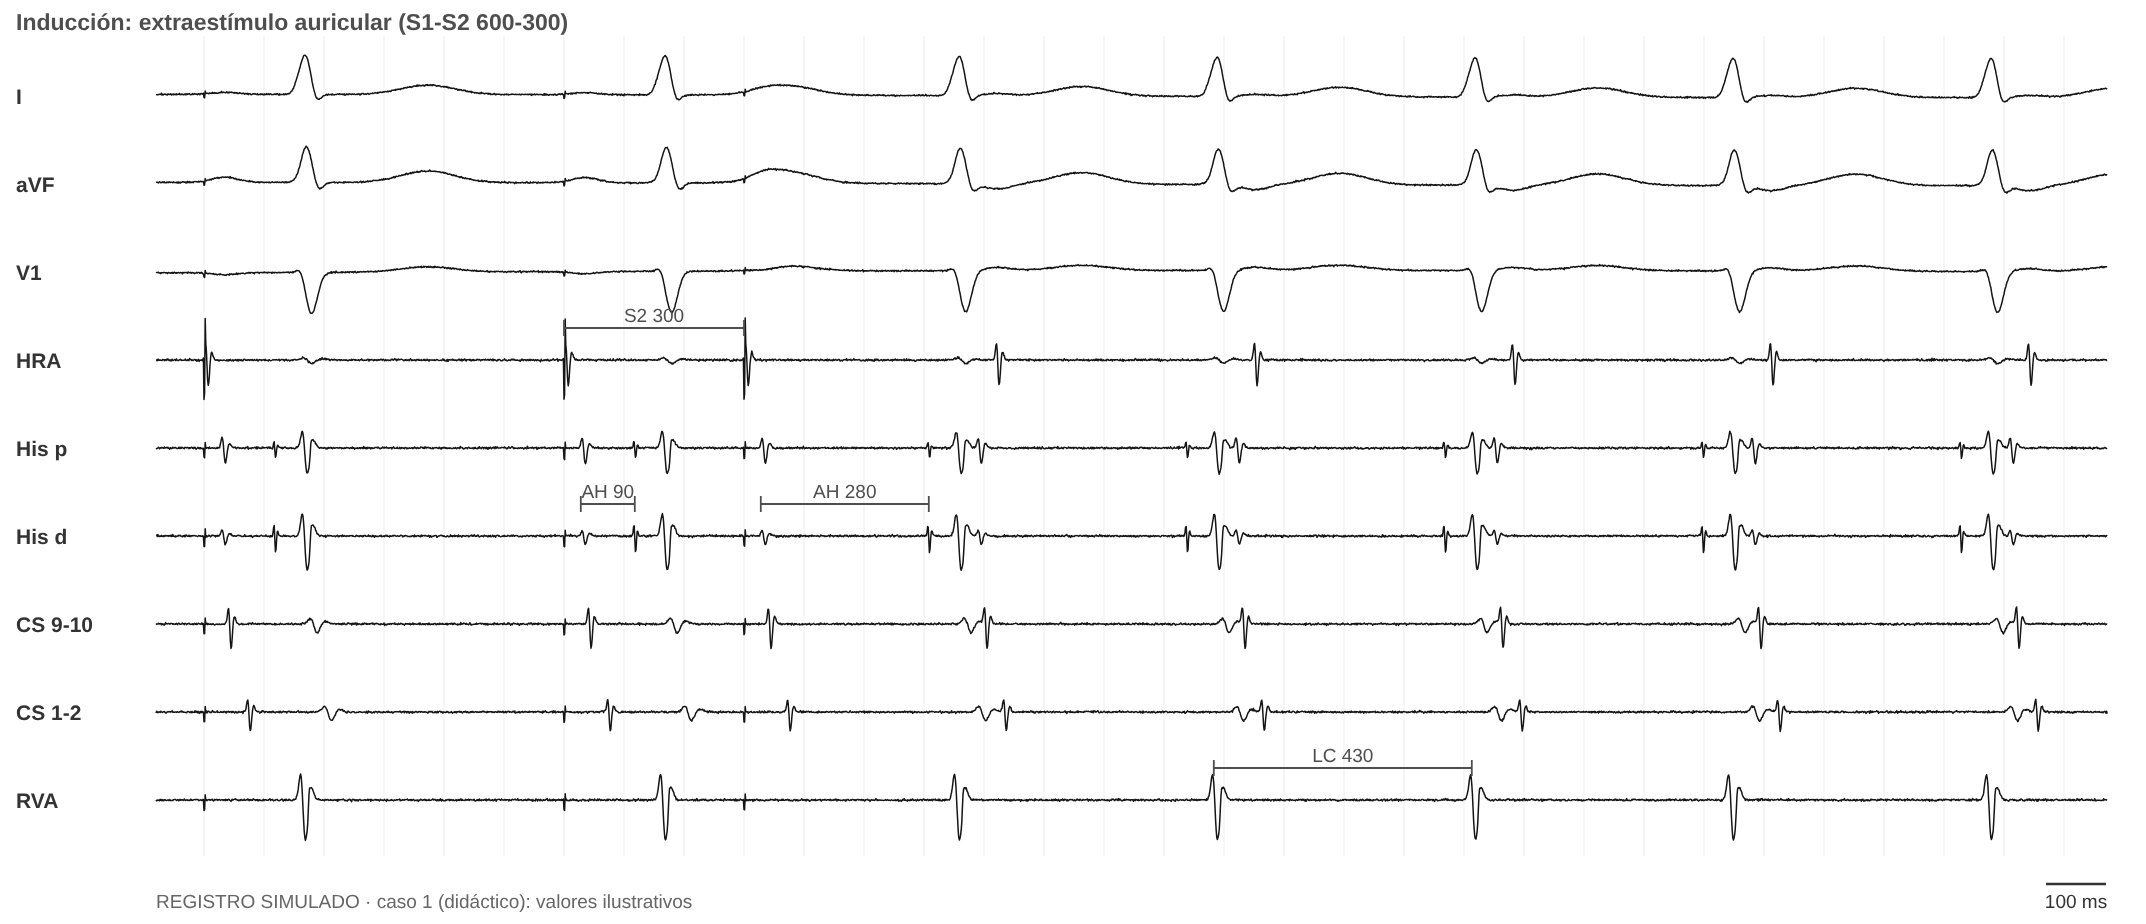
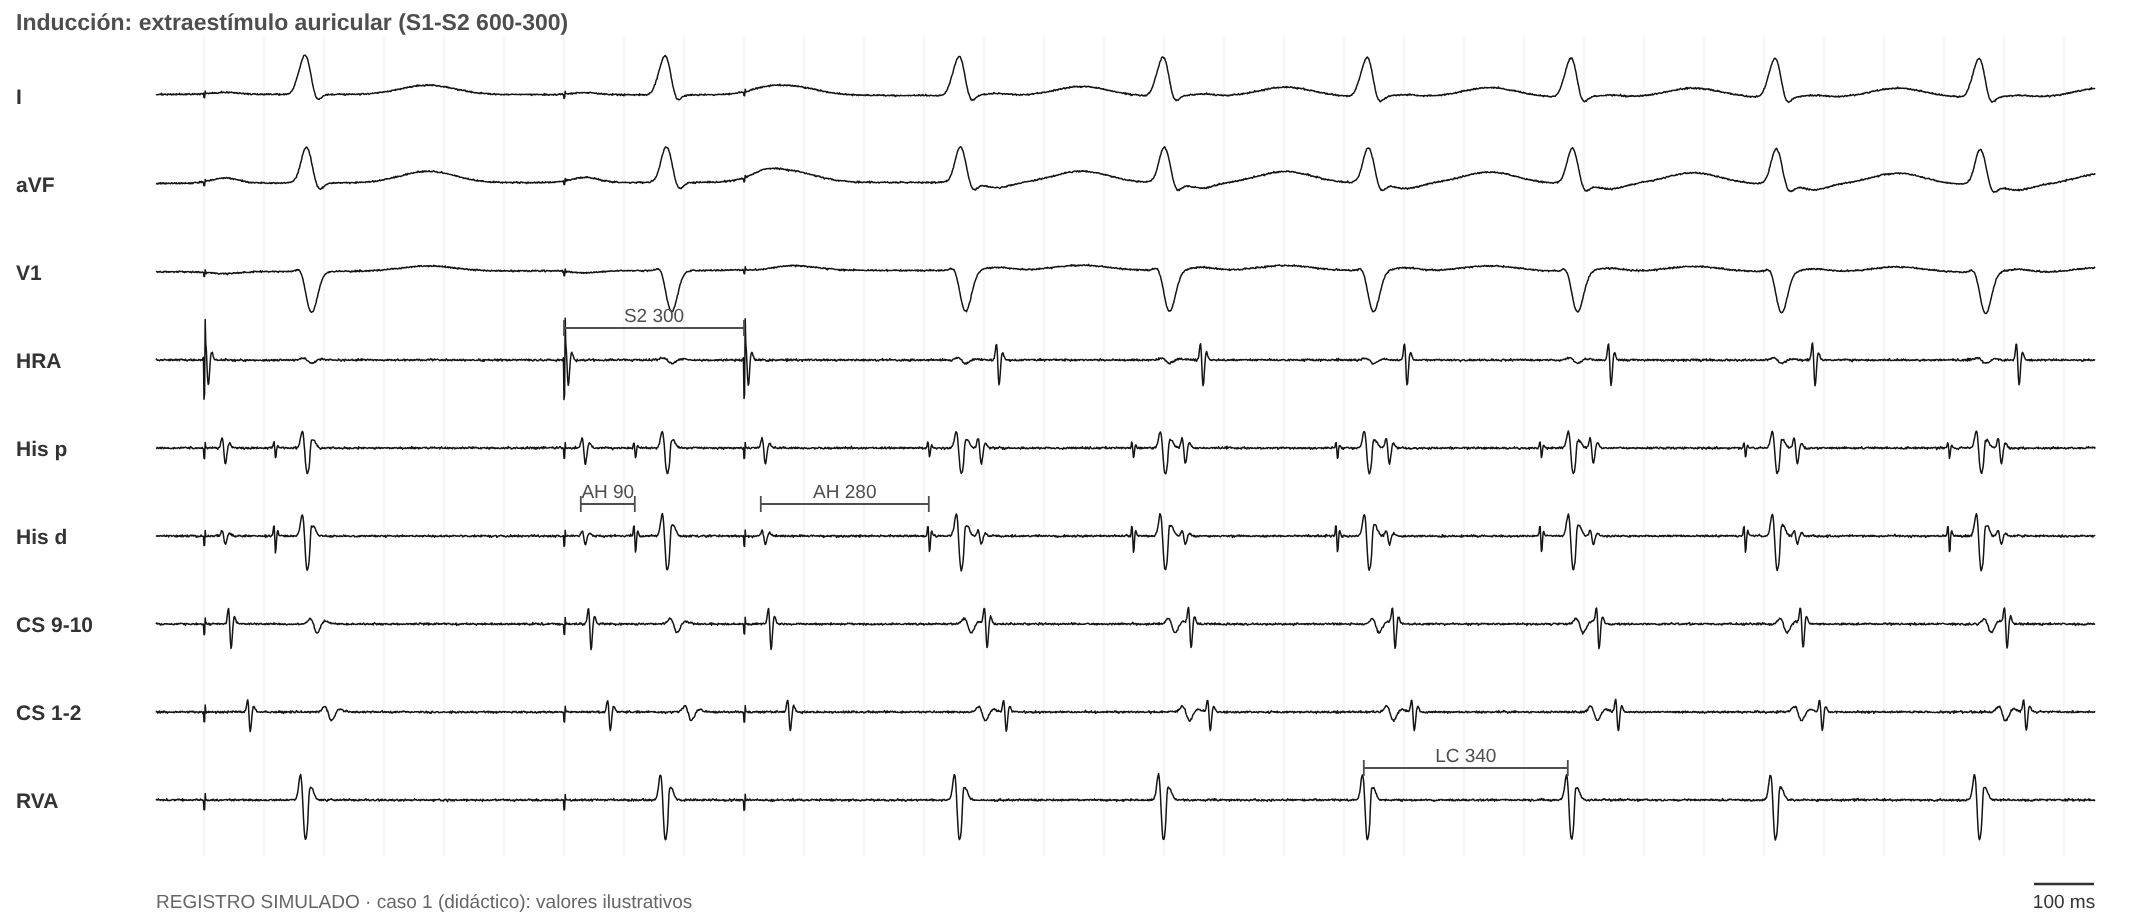
Caso 1: ECG real de TRNAV típica (anonimizado), LC 340 y sobreestimulación ventricular propia
Claude-Session: https://claude.ai/code/session_01Pw5rjt62KK5LeJZoEyFiaM

diff --git a/index.html b/index.html
@@ -1069,9 +1069,9 @@ const PDX = [['trnav_t', 'TRNAV típica'], ['trnav_a', 'TRNAV atípica'], ['trav
 const UTAG = { clave: ['Clave', 'var(--green)'], util: ['Útil', 'var(--blue)'], trampa: ['Engañosa', 'var(--orange)'] };
 const PCASOS = [
   { id: 'c1', t: 'Palpitaciones de inicio y fin bruscos', p: 'Adolescente de 15 años con palpitaciones paroxísticas. ECG basal normal, sin preexcitación.',
-    ecg: 'figs/sim/casos/c1_ecg.png', basal: 'figs/sim/casos/c1_basal.png', ind: 'figs/sim/casos/c1_ind.png',
-    h: ['TSV de QRS angosto inducida con extraestímulos auriculares, LC 430 ms', 'Relación AV 1:1', 'VA septal 40 ms: la A cae casi junto con el V', 'Activación auricular concéntrica (más precoz en el His y el SC proximal)'],
-    m: { vop: { r: 'Estimulando a 370 ms las A se aceleran con la misma secuencia; al cortar, respuesta A-V (A-H).', u: 'clave', img: 'figs/sim/prac/knight99.png' },
+    ecg: 'figs/sim/casos/c1_ecg.jpg', ecgReal: true, basal: 'figs/sim/casos/c1_basal.png', ind: 'figs/sim/casos/c1_ind.png',
+    h: ['TSV de QRS angosto inducida con extraestímulos auriculares, LC 340 ms', 'Relación AV 1:1', 'VA septal 40 ms: la A cae casi junto con el V', 'Activación auricular concéntrica (más precoz en el His y el SC proximal)'],
+    m: { vop: { r: 'Estimulando a 310 ms las A se aceleran con la misma secuencia; al cortar, respuesta A-V (A-H).', u: 'clave', img: 'figs/sim/prac/p1_vop.png' },
       medidas: { r: 'PPI−LC 170 ms; SA−VA 150 ms.', u: 'util' }, diff: { r: 'ΔVA (base − ápex) +35 ms.', u: 'util' },
       aop: { r: 'VA linking: el VA del primer latido de retorno es igual al de la TSV.', u: 'util' },
       pre: { r: 'Salto AH de 60 ms con extraestímulos auriculares y eco nodal.', u: 'util' },
@@ -1205,8 +1205,8 @@ function renderPracList() {
   $('#pracBody').querySelectorAll('[data-c]').forEach(b => b.onclick = () => startCase(+b.dataset.c));
 }
 function presFigs(c) {
-  const f = (src, lab) => src ? `<figure class="real sim"><a href="${src}" target="_blank" rel="noopener"><img src="${src}" alt="${lab}" loading="lazy"></a><figcaption>${lab}. Registro simulado (no es un registro real). Tocá para ampliar.</figcaption></figure>` : '';
-  return f(c.ecg, 'ECG de la taquicardia') + f(c.basal, 'Estudio basal') + f(c.ind, 'Inducción');
+  const f = (src, lab, real) => src ? `<figure class="real${real ? '' : ' sim'}"><a href="${src}" target="_blank" rel="noopener"><img src="${src}" alt="${lab}" loading="lazy"></a><figcaption>${lab}. ${real ? 'Registro real, anonimizado' : 'Registro simulado (no es un registro real)'}. Tocá para ampliar.</figcaption></figure>` : '';
+  return f(c.ecg, 'ECG de la taquicardia', c.ecgReal) + f(c.basal, 'Estudio basal') + f(c.ind, 'Inducción');
 }
 function startCase(i) { pCur = i; pLog = []; pDone = null; renderCase(); scrollTo({ top: $('#p-prac').offsetTop - 70 }); }
 function renderCase() {

diff --git a/sw.js b/sw.js
@@ -1,6 +1,6 @@
 // Permite instalar la app y abrirla sin conexión. Primero la red (siempre lo último publicado); si no hay, la copia.
 // Si cambiás un archivo, subí CACHE_VERSION.
-const CACHE_VERSION = 'mef-v58';
+const CACHE_VERSION = 'mef-v59';
 const ARCHIVOS = ['./', './index.html', './manifest.json', './iconos/icon-192.png', './iconos/icon-512.png'];
 self.addEventListener('install', e => e.waitUntil(caches.open(CACHE_VERSION).then(c => c.addAll(ARCHIVOS)).then(() => self.skipWaiting())));
 self.addEventListener('activate', e => e.waitUntil(caches.keys().then(ks => Promise.all(ks.filter(k => k !== CACHE_VERSION).map(k => caches.delete(k)))).then(() => self.clients.claim())));

diff --git a/herramientas/simulador/cases5.py b/herramientas/simulador/cases5.py
@@ -19,13 +19,14 @@ def basal(src, ah=90, hv=HV, cl=700, title='Estudio basal: ritmo sinusal', typ='
                      (hs[1], hs[1] + hv, 'His p', f'HV {hv}')])
 
 
-# Caso 1 (didáctico, TRNAV típica): AH 90, HV 45; inducción con S1-S2 600-300, AH 280 (salto), LC 430, VA 40.
+# Caso 1 (didáctico, TRNAV típica): LC 340 (como el ECG real del caso), VA 40, AH 90, HV 45.
+# Inducción con S1-S2 600-300: AH 280 (salto); en la TSV el AH se acomoda a 255.
 S['c1_basal'] = basal('caso 1 (didáctico): AH 90, HV 45, ilustrativo')
 
+LC, VA = 340, 40
 sp = [0, 600, 900]
 hs = [s + 28 + a for s, a in zip(sp, [90, 90, 280])]
-VA, LC = 40, 430
-for _ in range(4):
+for _ in range(5):
     hs.append(hs[-1] + LC)
 vs = [h + HV for h in hs]
 A_echo = [v + VA for v in vs[2:]]
@@ -34,7 +35,23 @@ S['c1_ind'] = dict(win=(-80, vs[-1] + 200), pxms=0.30, title='Inducción: extrae
     beats=[(v, 'n') for v in vs], aspikes=sp, apace_ch='HRA',
     atr=[(s + 5, 'sinus', 1) for s in sp] + [(a, 'conc_his', -1) for a in A_echo], h_ante=hs,
     cal=[(sp[1] + 28, hs[1], 'His d', 'AH 90'), (sp[2] + 28, hs[2], 'His d', 'AH 280'),
-         (sp[1], sp[2], 'HRA', 'S2 300'), (vs[3], vs[4], 'RVA', f'LC {LC}')])
+         (sp[1], sp[2], 'HRA', 'S2 300'), (vs[4], vs[5], 'RVA', f'LC {LC}')])
+
+# Caso 1: sobreestimulación ventricular desde el ápex a 310 (6 estímulos). A-V; SA 190, PPI 510 (PPI−LC 170, SA−VA 150).
+SC, SA, PPI = 310, 190, 510
+svt = [0, LC, 2 * LC]
+sp = [svt[-1] + 290 + SC * k for k in range(6)]
+A = [v + VA for v in svt] + [s + SA for s in sp]
+ret = sp[-1] + PPI
+after = [ret, ret + LC]
+S['p1_vop'] = dict(win=(-80, after[-1] + 250), pxms=0.25, title='Sobreestimulación ventricular desde el ápex del VD a 310 ms', channels=CH6,
+    src='caso 1 (didáctico): valores ilustrativos',
+    beats=[(v, 'n') for v in svt + after] + [(s, 'pa') for s in sp], spikes=sp,
+    atr=[(a, 'conc_his', -1) for a in A + [v + VA for v in after]],
+    h_ante=[v - HV for v in svt + after], h_retro=[s + 120 for s in sp],
+    cal=[(svt[0], svt[1], 'RVA', f'LC {LC}'), (svt[1], svt[1] + VA, 'CS 9-10', f'VA {VA}'),
+         (A[-2], A[-1], 'HRA', f'A-A {SC}'), (sp[-1], A[-1] + 2, 'CS 9-10', f'SA {SA}'),
+         (sp[-1], ret + 2, 'RVA', f'PPI {PPI}')])
 
 if __name__ == '__main__':
     for k in (sys.argv[3:] or list(S)):
